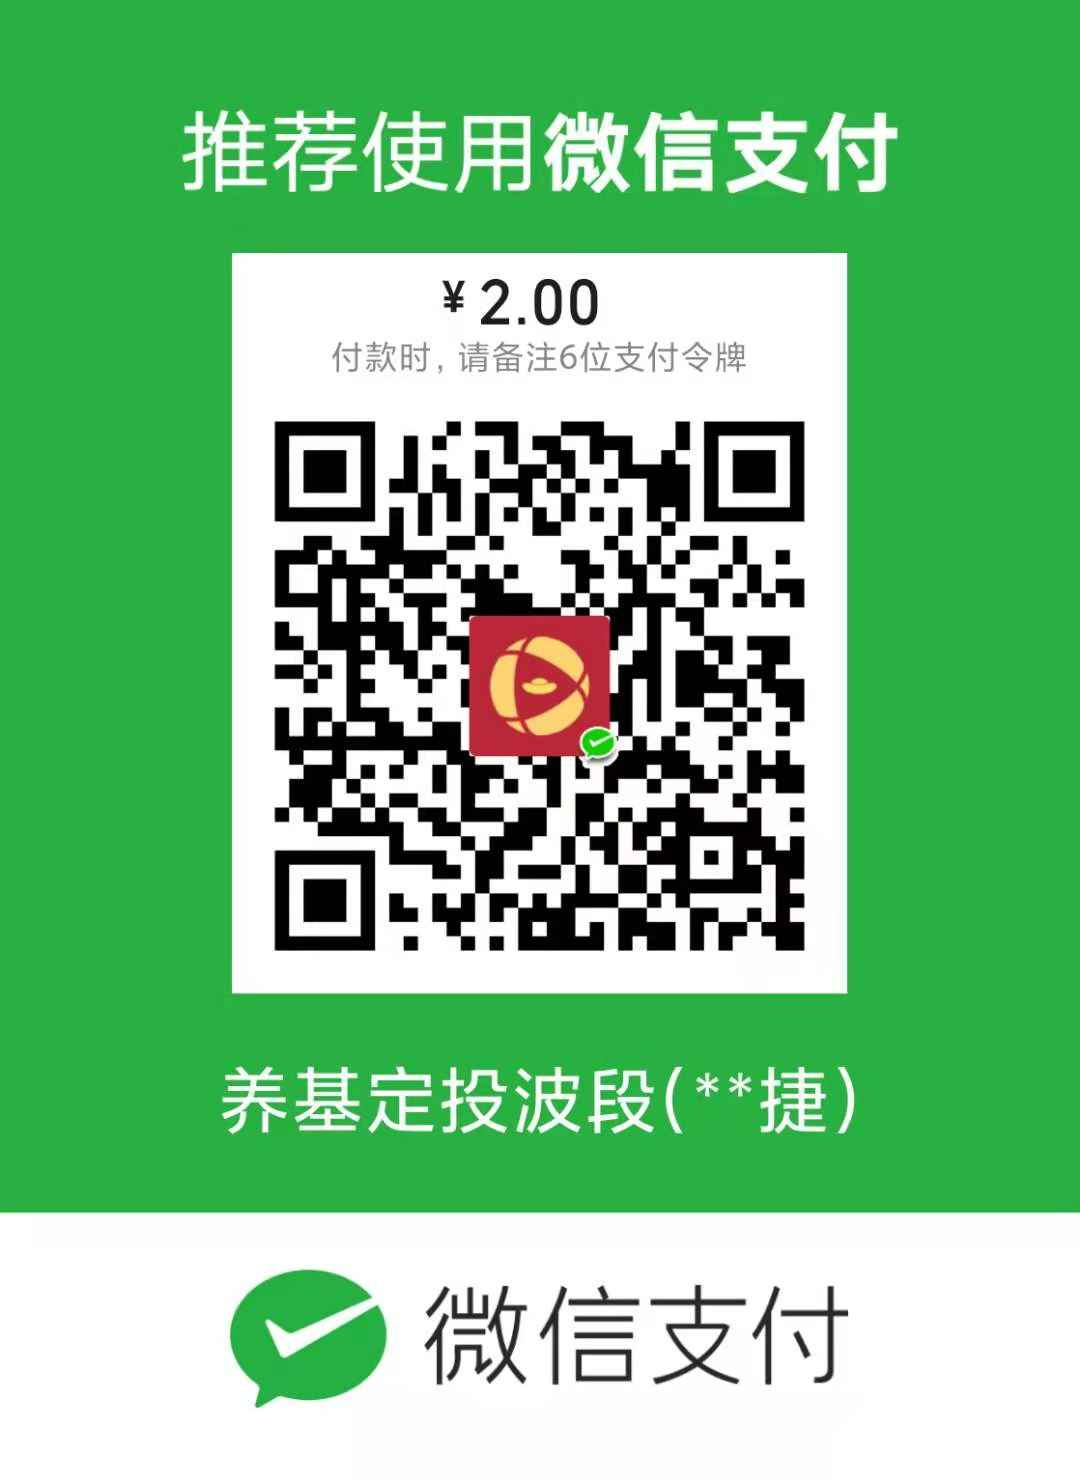
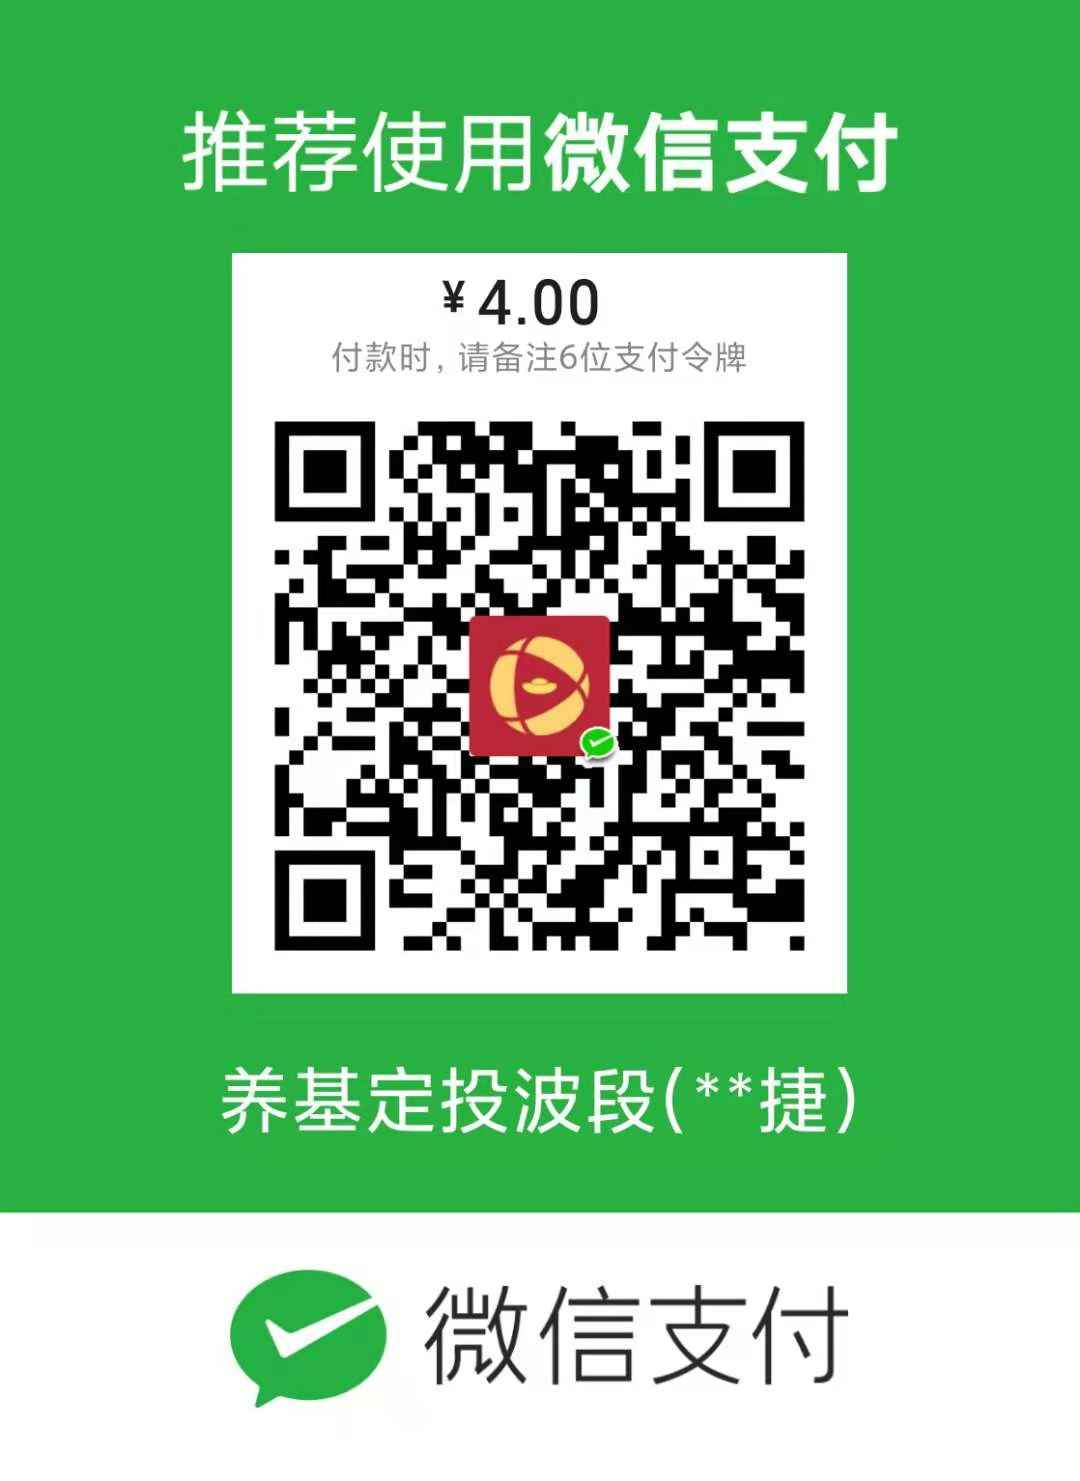
xg

Changed region(s): [[0.2444, 0.2795, 0.7639, 0.6523], [0.4278, 0.1864, 0.4889, 0.2174]]

diff --git a/src/routers/VipBuy/index.vue b/src/routers/VipBuy/index.vue
@@ -64,11 +64,12 @@ export default {
     BuyCountDownDialog
   },
   data () {
+    // 不要纠结定价，买得人多了再慢慢涨
     return {
       message: '',
       loading: false,
       cardList: [
-        {day: 1, money: 2},
+        {day: 1, money: 4},
         {day: 20, money: 15},
         {day: 60, money: 40},
         {day: 120, money: 70},
